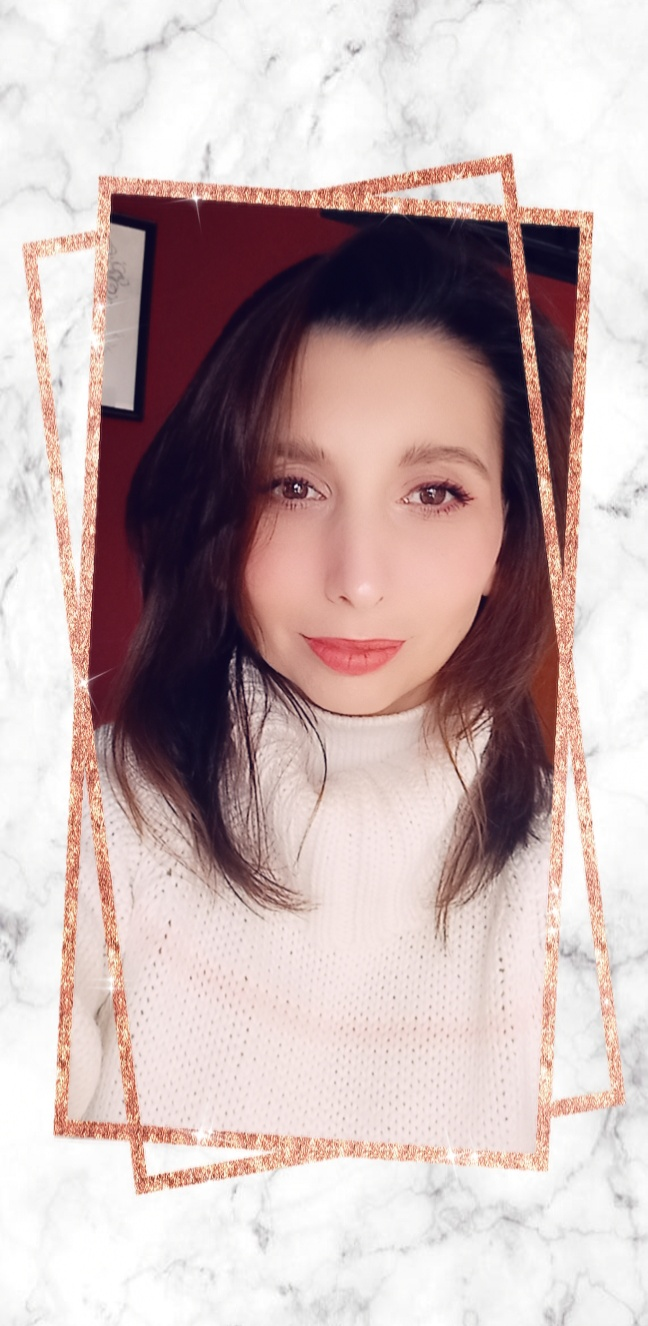
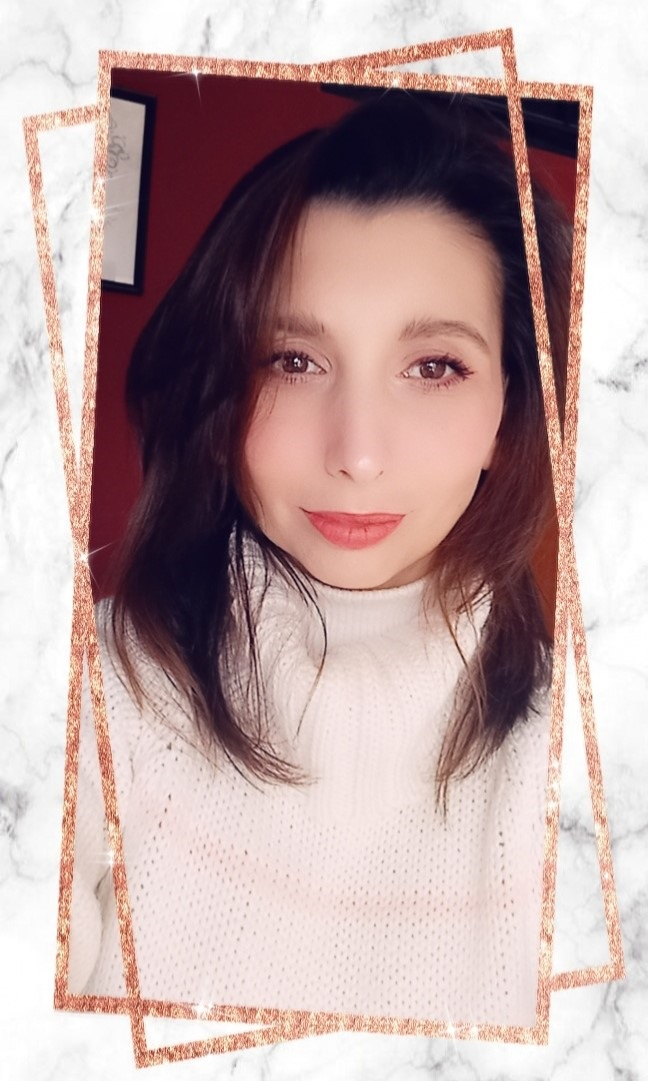
acercade

diff --git a/Proyecto/src/app/components/acercade/acercade.component.css b/Proyecto/src/app/components/acercade/acercade.component.css
@@ -2,6 +2,32 @@
     padding: 0px;
 }
 div{
-    background-color: #cecbbe;
+    background-color: #cfccc2;
     text-align: center;
+}
+/*Estilo de la foto de perfil*/
+@media (min-width: 576px){
+    #fotodeperfil{
+        position: absolute;
+        width: 12%;
+        border-radius: 10%;
+        box-shadow: 3px 3px 3px grey;
+        left: 3%;
+        top: 600px
+    }
+}
+@media (max-width: 575px){
+    #fotodeperfil{
+        position: absolute;
+        width: 20%;
+        border-radius: 10%;
+        box-shadow: 3px 3px 3px grey;
+        left: 40%;
+        top: 660px
+    }
+}
+/*etiqueta nombre*/
+#nombre{
+    font-weight: bold;
+    margin-top: 30%
 }

diff --git a/Proyecto/src/app/components/acercade/acercade.component.html b/Proyecto/src/app/components/acercade/acercade.component.html
@@ -1,9 +1,9 @@
 <div class="row"> 
     <div class="col-xs-12 col-sm-2 col-md-2 col-lg-2">
-      <img src="../../../assets/foto.jpg" class="img-fluid">  
+      <img src="../../../assets/foto.jpg" class="img-fluid" id="fotodeperfil">  
     </div>
     <div class="col-xs-12 col-sm-2 col-md-2 col-lg-2">
-      <p>Gisela P. Martínez</p>					
+      <p id="nombre">Gisela P. Martínez</p>					
       <p>Full Stack Developer Jr.</p>
     </div>
     <div class="col-xs-12 col-sm-8 col-md-8 col-lg-8">
